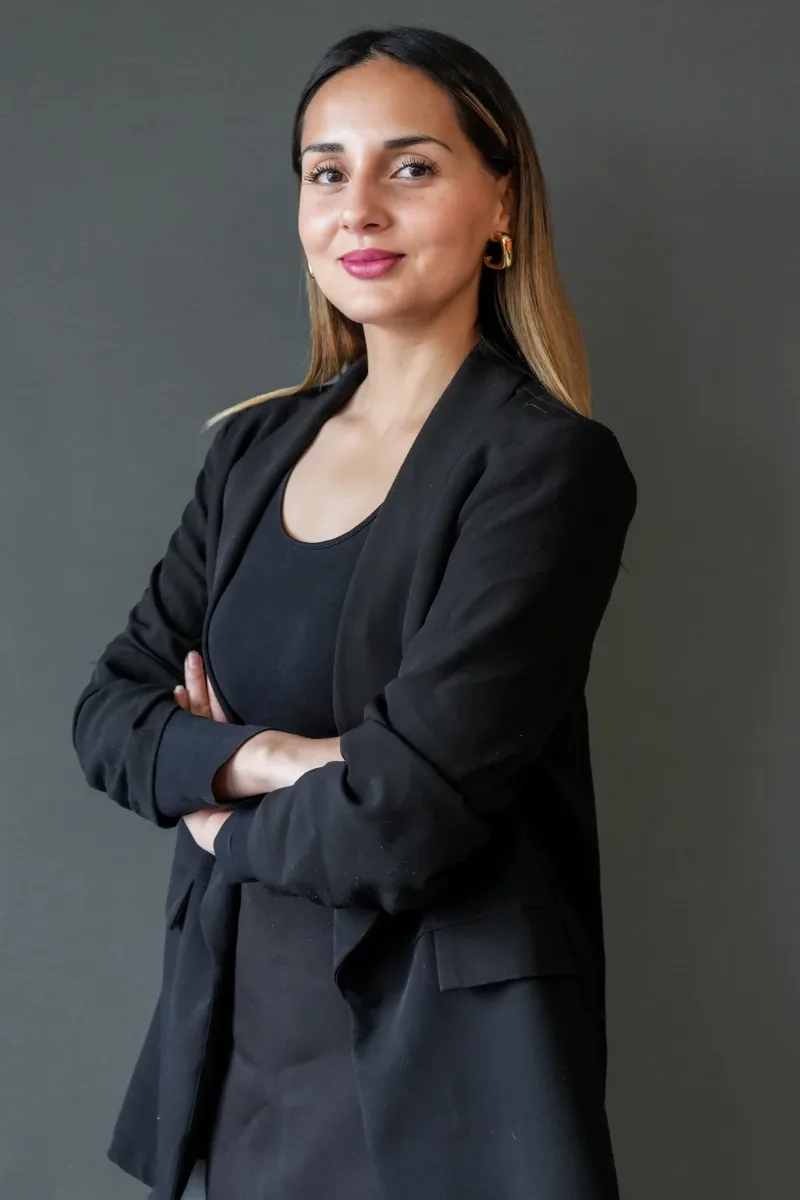
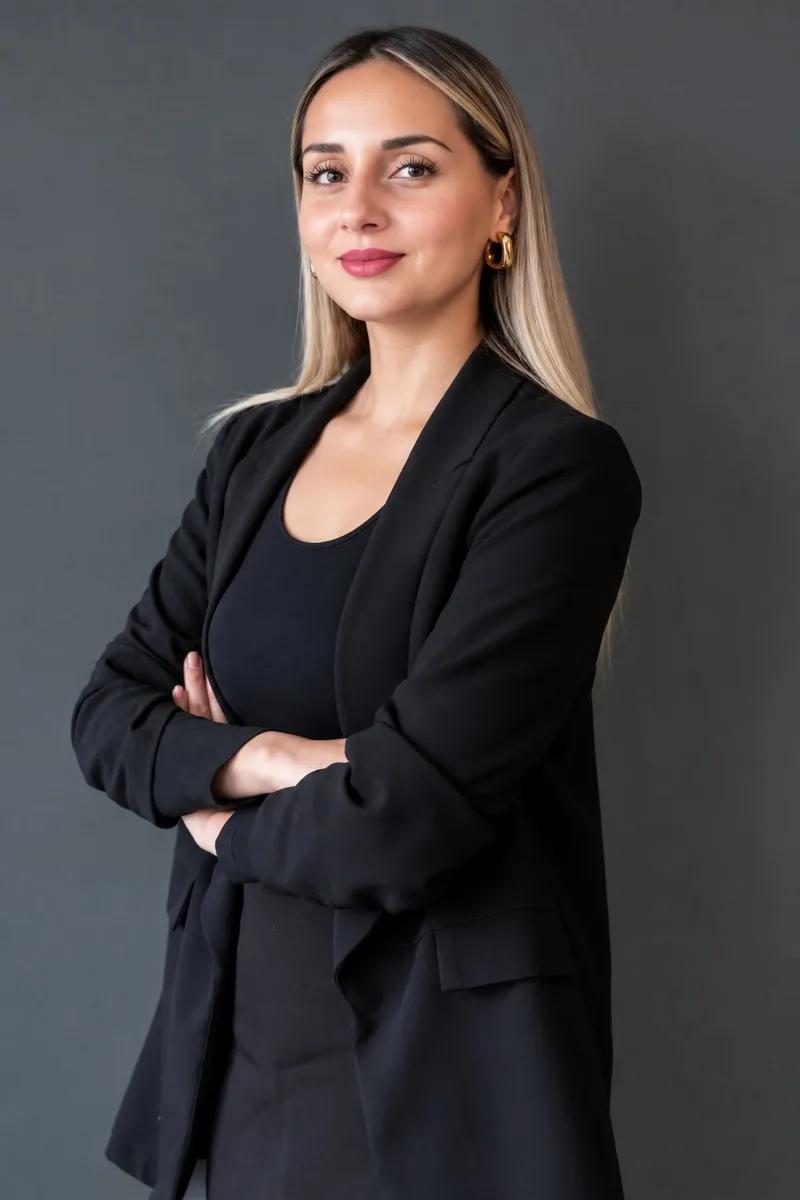
Actualizar foto de Constanza Urra en colaboradores

diff --git a/grupo-educacional-san-amaro/project/index.html b/grupo-educacional-san-amaro/project/index.html
@@ -556,7 +556,7 @@
       </div>
       <div data-colab-category="Dirección" style="background:#1A1A1A;border:1px solid rgba(255,255,255,.08);border-radius:20px;padding:20px;display:flex;flex-direction:column;transition:opacity .3s,transform .3s,box-shadow .25s;" style-hover="box-shadow:0 12px 32px rgba(0,0,0,.25);">
         <div style="border-radius:12px;overflow:hidden;aspect-ratio:4/3;margin-bottom:16px;">
-          <img loading="lazy" decoding="async" src="uploads/Constanza Urra.webp" alt="Constanza Urra" style="width:100%;height:100%;object-fit:cover;object-position:top;transition:transform .3s;" style-hover="transform:scale(1.05);">
+          <img loading="lazy" decoding="async" src="uploads/Constanza Urra.webp?v=2" alt="Constanza Urra" style="width:100%;height:100%;object-fit:cover;object-position:top;transition:transform .3s;" style-hover="transform:scale(1.05);">
         </div>
         <h3 style="font-family:'Fraunces',serif;font-size:17px;font-weight:600;color:#FAF9F5;margin-bottom:4px;">Constanza Urra</h3>
         <p style="font-size:12px;color:#8A867C;margin-bottom:10px;font-weight:500;letter-spacing:.04em;">Gerente Comercial</p>
